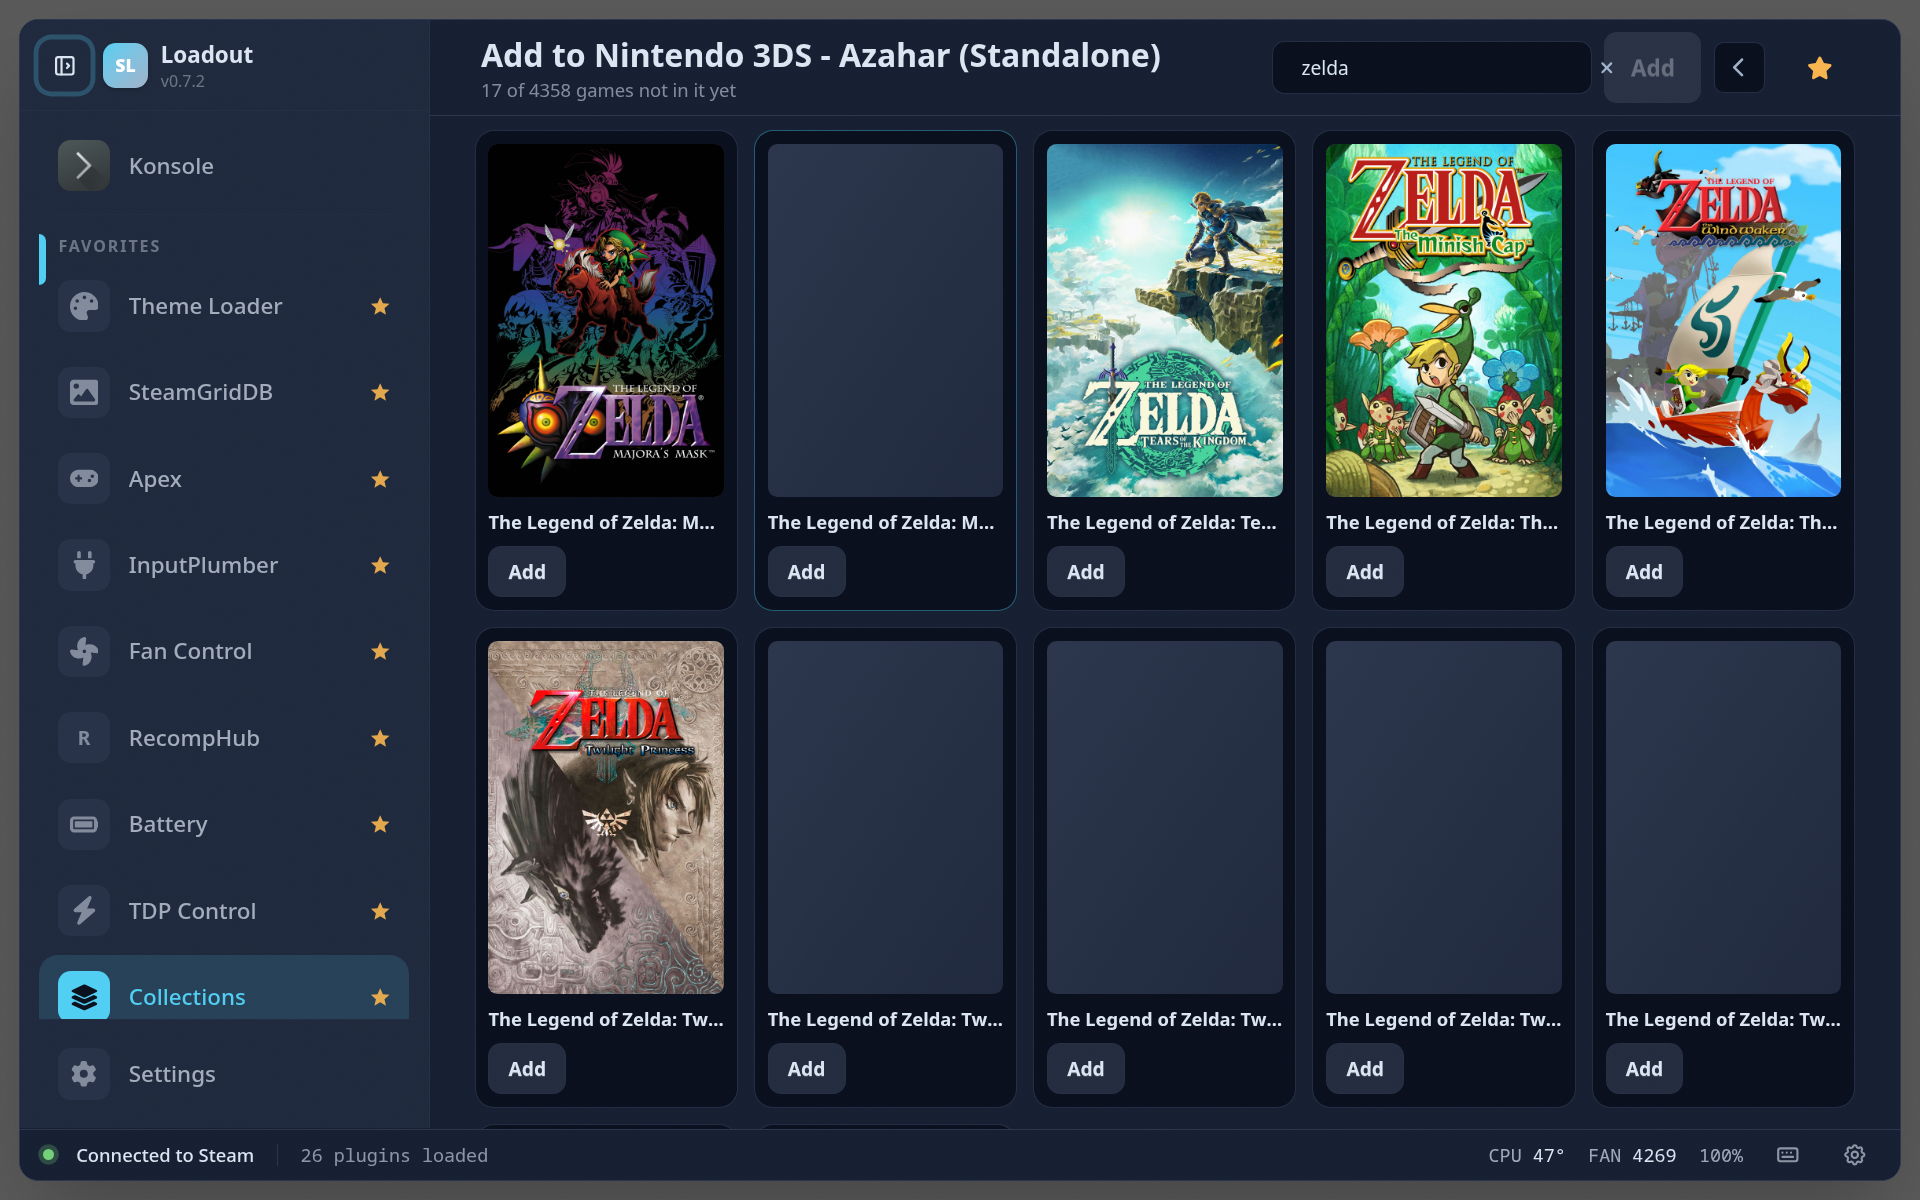
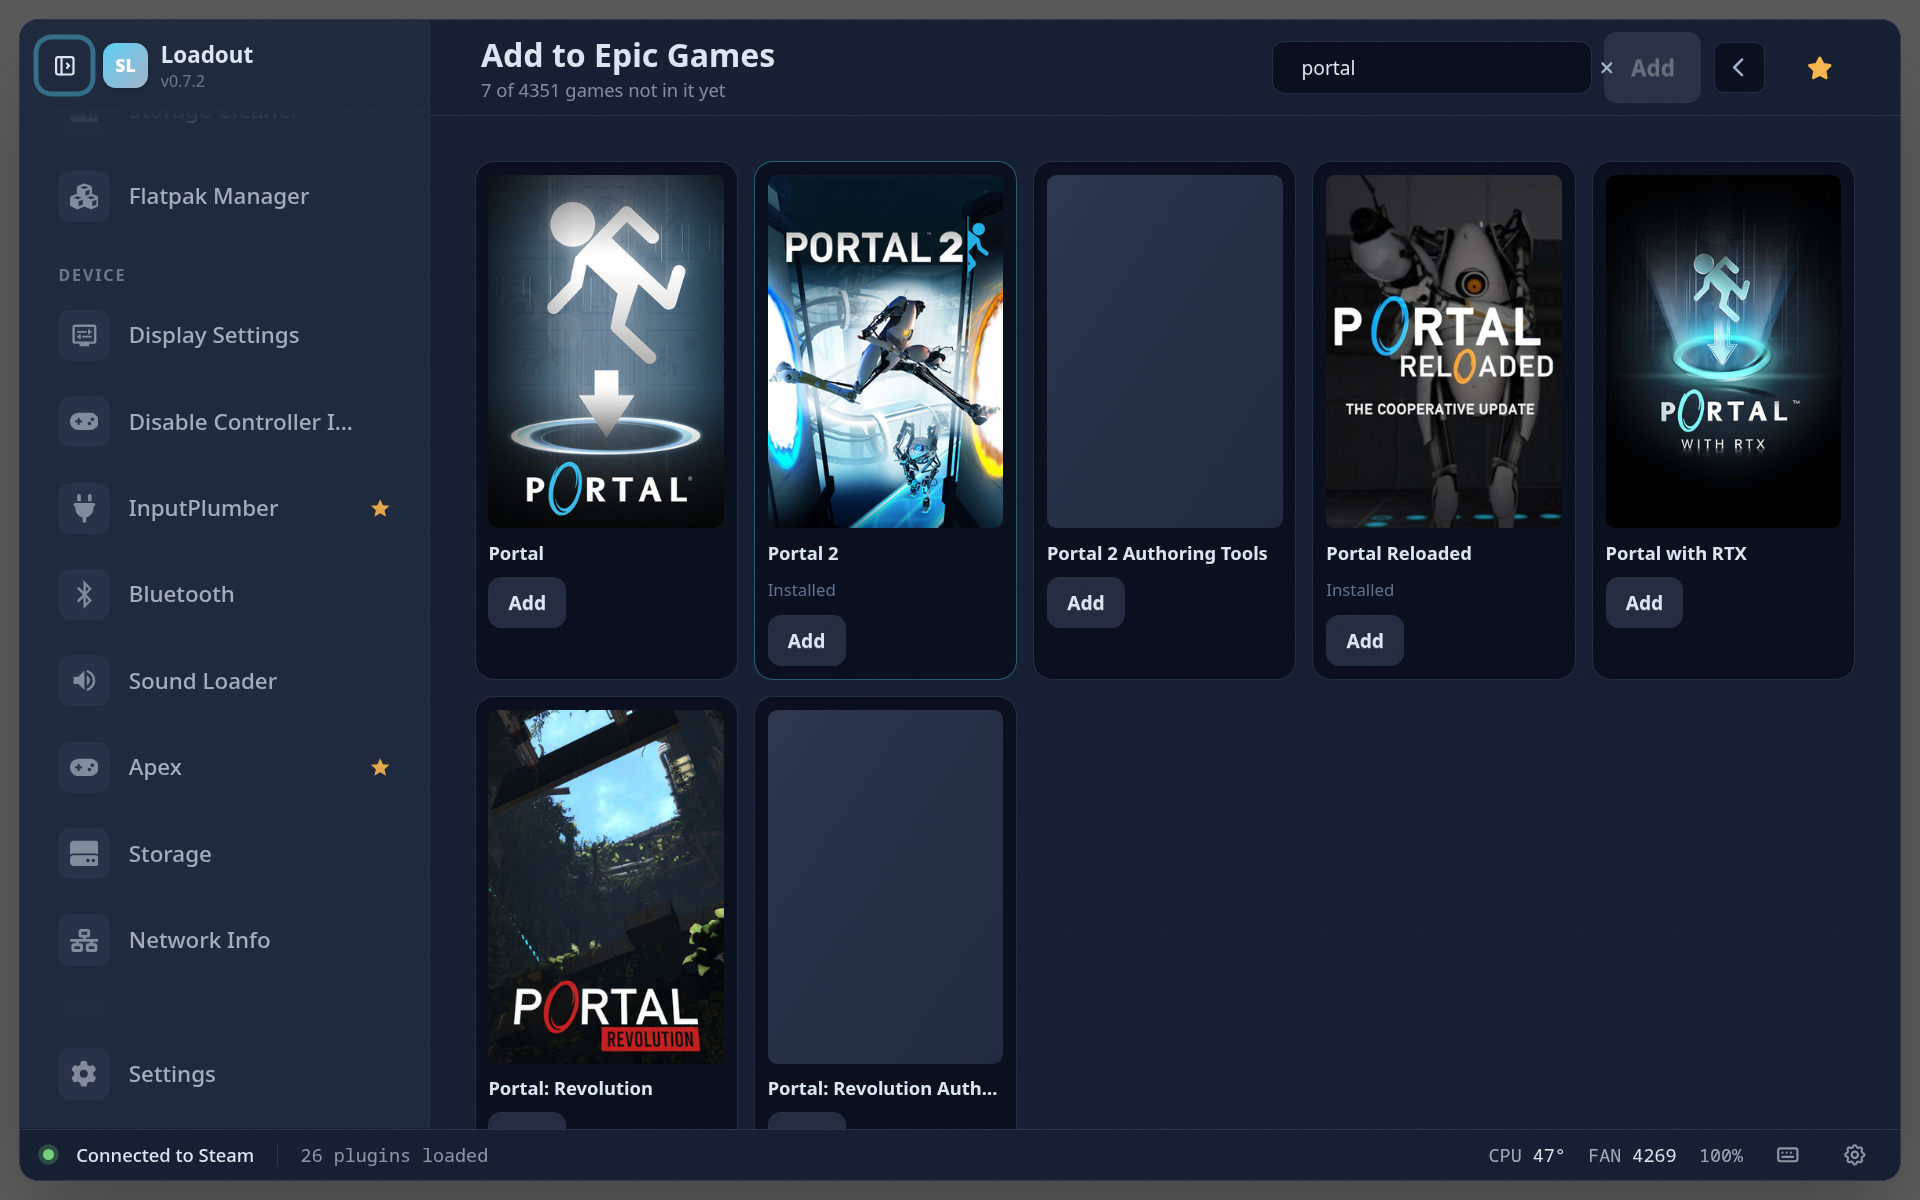
docs(collections): keep a console maker's titles out of the picker shot
The add-games screenshot was taken against the last collection on the grid,
which here is an emulator one — so a public-repo image carried a console
maker's name in the header and its titles across the tiles. It targets a store
collection and filters to Valve's, which shows the same thing about the screen
without any of that.

Claude-Session: https://claude.ai/code/session_01WvzCDtcwXDUGHg3tybwJtL

diff --git a/scripts/capture-screenshots.ts b/scripts/capture-screenshots.ts
@@ -107,14 +107,19 @@ const PAGE_RECIPES: Record<string, PageShot[]> = {
     },
     {
       name: "add-games",
-      // Filtered rather than scrolled to the top: the picker opens on the
-      // whole library, and a shot of row 40 of 4358 reads as an accident.
-      // Narrowing it also shows the filter, which is the point of the screen.
+      // Targeted by name, and filtered, for two reasons. The picker opens on
+      // the whole library, so a shot of row 40 of 4358 reads as an accident —
+      // narrowing it also shows the filter, which is the point of the screen.
+      // And this image ships in a public repo: the last card happens to be an
+      // emulator collection here, which puts a console maker's titles and its
+      // name in the frame. A store collection and a Valve filter keep both out
+      // of it. On a device without "Epic Games" the step finds nothing and the
+      // page is skipped, which is the intended behaviour for a missing target.
       steps: [
-        { kind: "card", last: true },
+        { kind: "text", label: "Epic Games" },
         { kind: "aria", label: "Add games" },
         { kind: "wait", ms: 500 },
-        { kind: "type", placeholder: "Filter", text: "zelda" },
+        { kind: "type", placeholder: "Filter", text: "portal" },
         { kind: "wait", ms: 500 },
         { kind: "scrollTop" },
       ],
